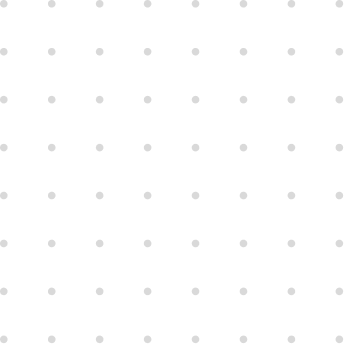
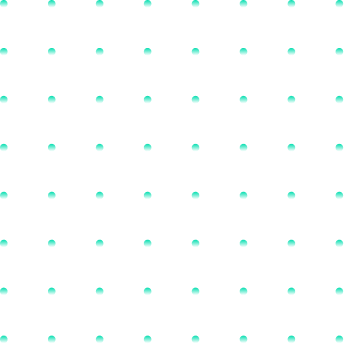
chore: update styles of roadmap section

diff --git a/src/components/styles/Roadmap.scss b/src/components/styles/Roadmap.scss
@@ -30,7 +30,7 @@
   flex-flow: row wrap;
   justify-content: space-around;
   padding: 0;
-  margin-top: 15px;
+  margin-top: 35px;
   list-style: none;
   flex-direction: column;
   align-items: center;
@@ -44,12 +44,14 @@
   color: white;
   font-weight: bold;
   text-align: center;
+  border-radius: 5px;
 
-  border: solid white 2px;
+  border: solid rgba(255, 255, 255, 0.3) 2px;
   display: flex;
   flex-direction: column;
   gap: 10px;
   z-index: 2;
+  min-height: 375px;
 }
 
 .roadMapHeader {
@@ -60,9 +62,9 @@
 }
 
 .roadMapText {
-  font-weight: 500;
+  font-weight: 400;
   font-size: 16px;
-  line-height: 1.3em;
+  line-height: 1.5em;
   /* or 135% */
 
   text-align: center;
@@ -90,7 +92,7 @@
   font-size: 38px;
   font-weight: 600;
   font-style: italic;
-  background: linear-gradient(90deg, #5fa8ff, #cc00ff);
+  background: linear-gradient(90deg, #02E0AF, #3368CC);
   background-clip: 0;
   -webkit-background-clip: text;
   -webkit-text-fill-color: transparent;
@@ -107,24 +109,25 @@
 }
 
 .roadMapStepBackground1 {
-  background-image: linear-gradient(to bottom,
-      rgba(0, 0, 0, 0.7),
-      rgba(0, 0, 0, 0.8)),
-    url(../../assets/roadmap/RoadmapSteps.png);
+  background-image: url(../../assets/roadmap/RoadmapSteps.png);
   background-position: center;
   background-repeat: no-repeat;
   background-size: cover;
   background-color: #202f3f;
-  border-image: linear-gradient(#5fa8ff, #cc00ff) 30;
+  border-image: linear-gradient(90deg, #02E0AF, #3368CC) 30;
   border-width: 2.5px;
   border-style: solid;
+  border-radius: 5px;
+  position: relative;
+  z-index: +50;
 }
 
 .roadMapStepBackground2 {
-  background: rgba(32, 47, 63, 0.3);
+  background: linear-gradient(90deg, rgba(2, 224, 175, 0.2), rgba(51, 104, 204, 0.2));
   background-position: center;
   background-repeat: no-repeat;
   background-size: cover;
+  border-radius: 5px;
 }
 
 .roadMapInnerFlexContainer {
@@ -141,19 +144,19 @@
 
 .dotPatternRoadMap1 {
   position: absolute;
-  width: 5vw;
+  width: 10vw;
   height: auto;
-  left: 91%;
-  top: 7%;
+  left: -6%;
+  top: 40%;
   z-index: 1;
 }
 
 .dotPatternRoadMap2 {
   position: absolute;
-  width: 5vw;
+  width: 4vw;
   height: auto;
-  left: 12%;
-  top: 85%;
+  left: 33%;
+  top: 15%;
   z-index: 1;
 }
 
@@ -161,17 +164,17 @@
   position: absolute;
   width: 25vw;
   height: auto;
-  left: 17%;
-  top: 10%;
+  right: 17%;
+  top: 32%;
   z-index: 1;
 }
 
 .dotPatternRoadMap4 {
   position: absolute;
-  width: 5vw;
+  width: 6vw;
   height: auto;
-  left: 85%;
-  top: 60%;
+  left: 22.2%;
+  top: 82%;
   z-index: 1;
 }
 
@@ -234,28 +237,28 @@
           content: "";
           width: 1000px;
           height: 9px;
-          background-image: url("/src/assets/roadmap/arrow4.png");
-          background-size: 1000px 9px;
+          background-image: url("/src/assets/roadmap/arrow5.png");
+          background-size: 500px 9px;
           background-position: center right;
           background-repeat: no-repeat;
           position: absolute;
           right: calc(100% + 5px);
           top: 50%;
-          opacity: 0.7;
+          opacity: 1;
         }
 
         &:after {
           content: "";
           width: 42px;
           height: 9px;
-          background-image: url("/src/assets/roadmap/arrow4.png");
-          background-size: 1000px 9px;
+          background-image: url("/src/assets/roadmap/arrow5.png");
+          background-size: 500px 9px;
           background-position: center right;
           background-repeat: no-repeat;
           position: absolute;
           left: calc(100% + 8px);
           top: 50%;
-          opacity: 0.7;
+          opacity: 1;
         }
       }
 

diff --git a/src/components/Roadmap.tsx b/src/components/Roadmap.tsx
@@ -2,22 +2,21 @@ import Container from "react-bootstrap/Container";
 import "./styles/Roadmap.scss";
 import dotPattern1 from "../assets/dot_pattern_1.png";
 import dotPattern2 from "../assets/dot_pattern_2.png";
-import arrow1 from "../assets/roadmap/arrow1.png";
-import arrow3 from "../assets/roadmap/arrow3.png";
+import dotPattern4 from "../assets/dot_pattern_4.png";
 
 function Roadmap() {
   return (
     <Container className="roadMap" id="roadmap">
       <div className="backgroundAssets">
-        <img alt="" src={dotPattern1} className="dotPatternRoadMap1" />
-        <img alt="" src={dotPattern1} className="dotPatternRoadMap2" />
-        <img alt="" src={dotPattern1} className="dotPatternRoadMap4" />
+        <img alt="" src={dotPattern4} className="dotPatternRoadMap1"/>
+        <img alt="" src={dotPattern1} className="dotPatternRoadMap2"/>
+        <img alt="" src={dotPattern2} className="dotPatternRoadMap3"/>
+        <img alt="" src={dotPattern4} className="dotPatternRoadMap4"/>
         {/* <img alt="" src={arrow1} className="roadMapArrow1" />
         <img alt="" src={arrow1} className="roadMapArrow2" />
         <img alt="" src={arrow1} className="roadMapArrow3" />
         <img alt="" src={arrow1} className="roadMapArrow5" />
         <img alt="" src={arrow3} className="roadMapArrow4" /> */}
-        <img alt="" src={dotPattern2} className="dotPatternRoadMap3" />
       </div>
       <h2 className="sectionTitle">ROADMAP</h2>
       <div className="roadMapFlexContainer">
@@ -58,7 +57,6 @@ function Roadmap() {
               what's to come. Alpha stage enables users to begin interacting
               with the Draftables ecosystem.
             </p>
-            <p className="progressTextSoon">SOON</p>
           </div>
         </div>
         <div className="roadMapInnerFlexContainer">
@@ -74,7 +72,6 @@ function Roadmap() {
               through responding to community feedback and refining the gameplay
               features.
             </p>
-            <p className="progressTextSoon">SOON</p>
           </div>
           <div className="roadMapStep roadMapStepBackground2">
             <div className="roadMapTitle">
@@ -86,7 +83,6 @@ function Roadmap() {
               have all Platform components available publicly via desktop and
               mobile.
             </p>
-            <p className="progressTextSoon">SOON</p>
           </div>
         </div>
       </div>
